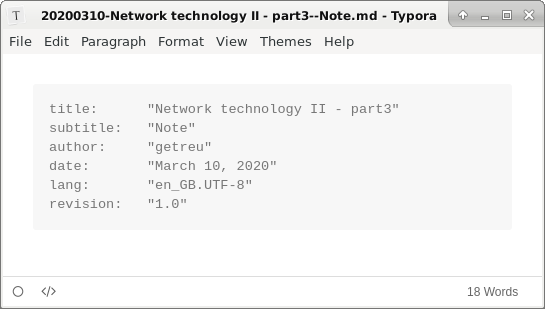
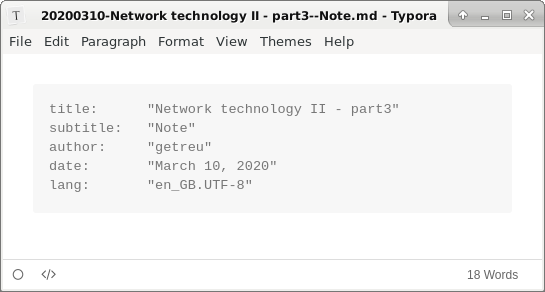
doc: update documentation

diff --git a/src/config.rs b/src/config.rs
@@ -42,32 +42,32 @@ pub const EXTENSION_DEFAULT: &str = "md";
 /// Markdown encoded Tp-Note files.
 pub const NOTE_FILE_EXTENSIONS_MD: &[&str] = &["md", "markdown", "markdn", "mdown", "mdtxt"];
 
-/// See above.
-///
 /// The present list contains file extensions of
 /// RestructuredText encoded Tp-Note files.
+///
+/// See also `NOTE_FILE_EXTENSION_MD`.
 pub const NOTE_FILE_EXTENSIONS_RST: &[&str] = &["rst", "rest"];
 
-/// See above.
-///
 /// The present list contains file extensions of
 /// HTML encoded Tp-Note files. For these
 /// file types their content is forwarded to the web browser
 /// without modification.
+///
+/// See also `NOTE_FILE_EXTENSION_MD`.
 pub const NOTE_FILE_EXTENSIONS_HTML: &[&str] = &["htmlnote"];
 
-/// See above.
-///
 /// The present list contains file extensions of
 /// Text encoded Tp-Note files that the viewer shows
 /// literally without (almost) any additional rendering.
+///
+/// See also `NOTE_FILE_EXTENSION_MD`.
 pub const NOTE_FILE_EXTENSIONS_TXT: &[&str] = &["txtnote", "t2t", "textile", "twiki", "mediawiki"];
 
-/// See above.
-///
 /// The present list contains file extensions of
 /// Tp-Note files for which no viewer is opened
 /// (unless Tp-Note is invoked with `--view`).
+///
+/// See also `NOTE_FILE_EXTENSION_MD`.
 pub const NOTE_FILE_EXTENSIONS_UNKNOWN: &[&str] = &["adoc", "asciidoc"];
 
 /// Maximum length of a note's filename in bytes. If a filename-template produces

diff --git a/doc/source/tp-note--manual.md b/doc/source/tp-note--manual.md
@@ -102,10 +102,9 @@ subtitle:   "Note"
 author:     "getreu"
 date:       "March 10, 2020"
 lang:       "en_GB.UTF-8"
-revision:   "1.0"
 ---
 
-[03-Lied-Das_ist_mein_Teddybär - Lernstationen - Arbeitsblätter.odt](03-Lied-Das_ist_mein_Teddybär - Lernstationen - Arbeitsblätter.odt)
+[03-Lied-Das_ist_mein_Teddybär - Lernstationen - Arbeitsblätter.odt](<03-Lied-Das_ist_mein_Teddybär - Lernstationen - Arbeitsblätter.odt>)
 ```
 
 ![Annotate](images/workflow2-3.png){width="11cm"}
@@ -137,12 +136,11 @@ subtitle:   "URL"
 author:     "getreu"
 date:       "2020-08-27"
 lang:       "en_GB.UTF-8"
-revision:   "1.0"
 ---
 
-[ascii-hangman.exe](ascii-hangman.exe)
+[ascii-hangman.exe](<ascii-hangman.exe>)
 
-[ASCII-Hangman - hangman game for children with ASCII-art rewarding](https://blog.getreu.net/projects/ascii-hangman/#distribution)
+[ASCII-Hangman - hangman game for children with ASCII-art rewarding](<https://blog.getreu.net/projects/ascii-hangman/#distribution>)
 
 ```
 
@@ -176,10 +174,9 @@ subtitle:   "URL"
 author:     "getreu"
 date:       "March 10, 2020"
 lang:       "en_GB.UTF-8"
-revision:   "1.0"
 ---
 
-[Rustacean Station](https://rustacean-station.org/)
+[Rustacean Station](<https://rustacean-station.org/>)
 ```
 
 In this example we copied only one Markdown-link "Rustacean Station".
@@ -219,7 +216,6 @@ subtitle:   "Note"
 author:     "getreu"
 date:       "2020-03-23"
 lang:       "en_GB.UTF-8"
-revision:   "1.0"
 ---
 
 Winston kept his back turned to the telescreen. It was safer, though, as he well
@@ -299,7 +295,7 @@ Here some typical workflows:
   Document from where you downloaded the file:
 
   ```shell
-  echo  "[download](http://blog.getreu.net/_downloads/i3-extensions.zip)" | tp-note i3-extensions.zip
+  echo  "[download](<http://blog.getreu.net/_downloads/i3-extensions.zip>)" | tp-note i3-extensions.zip
   ```
 
   This creates the file `i3-extensions.zip--URL.md` with the
@@ -312,12 +308,11 @@ Here some typical workflows:
   author:     "getreu"
   date:       "2020-09-03"
   lang:       "en_GB.UTF-8"
-  revision:   "1.0"
   ---
 
-  [i3-extensions.zip](i3-extensions.zip)
+  [i3-extensions.zip](<i3-extensions.zip>)
 
-  [download](http://blog.getreu.net/_downloads/i3-extensions.zip)
+  [download](<http://blog.getreu.net/_downloads/i3-extensions.zip>)
   ```
 
 * Download a webpage, convert it to Markdown and insert the result
@@ -353,7 +348,6 @@ Here some typical workflows:
   author:     "getreu"
   date:       "2020-09-13"
   lang:       "en_GB.UTF-8"
-  revision:   "1.0"
   file_ext:   "mdtxt"
   ---
 
@@ -394,7 +388,6 @@ Here some typical workflows:
       author:     "getreu"
       date:       "2020-09-25"
       lang:       "en_GB.UTF-8"
-      revision:   "1.0"
       ---
 
       # Draft
@@ -747,7 +740,7 @@ Search for `</actions>` and replace it with:
         <name>Tp-Note View</name>
         <command>tp-note -v %f</command>
         <description>Tp-Note View</description>
-        <patterns>*.md</patterns>
+        <patterns>*.md;*.rst</patterns>
         <text-files/>
 </action>
 </actions>

diff --git a/README.md b/README.md
@@ -178,7 +178,7 @@ Instead, _Tp-Note_ renames the erroneous configuration file and prompts:
     *    Command line parameters:
     tp-note
     *    Configuration file path:
-    /home/getreu/.config/tp-note/tp-note.tomll
+    /home/getreu/.config/tp-note/tp-note.toml
 
 or
 

diff --git a/doc/source/index.md b/doc/source/index.md
@@ -178,7 +178,7 @@ Instead, _Tp-Note_ renames the erroneous configuration file and prompts:
     *    Command line parameters:
     tp-note
     *    Configuration file path:
-    /home/getreu/.config/tp-note/tp-note.tomll
+    /home/getreu/.config/tp-note/tp-note.toml
 
 or
 
